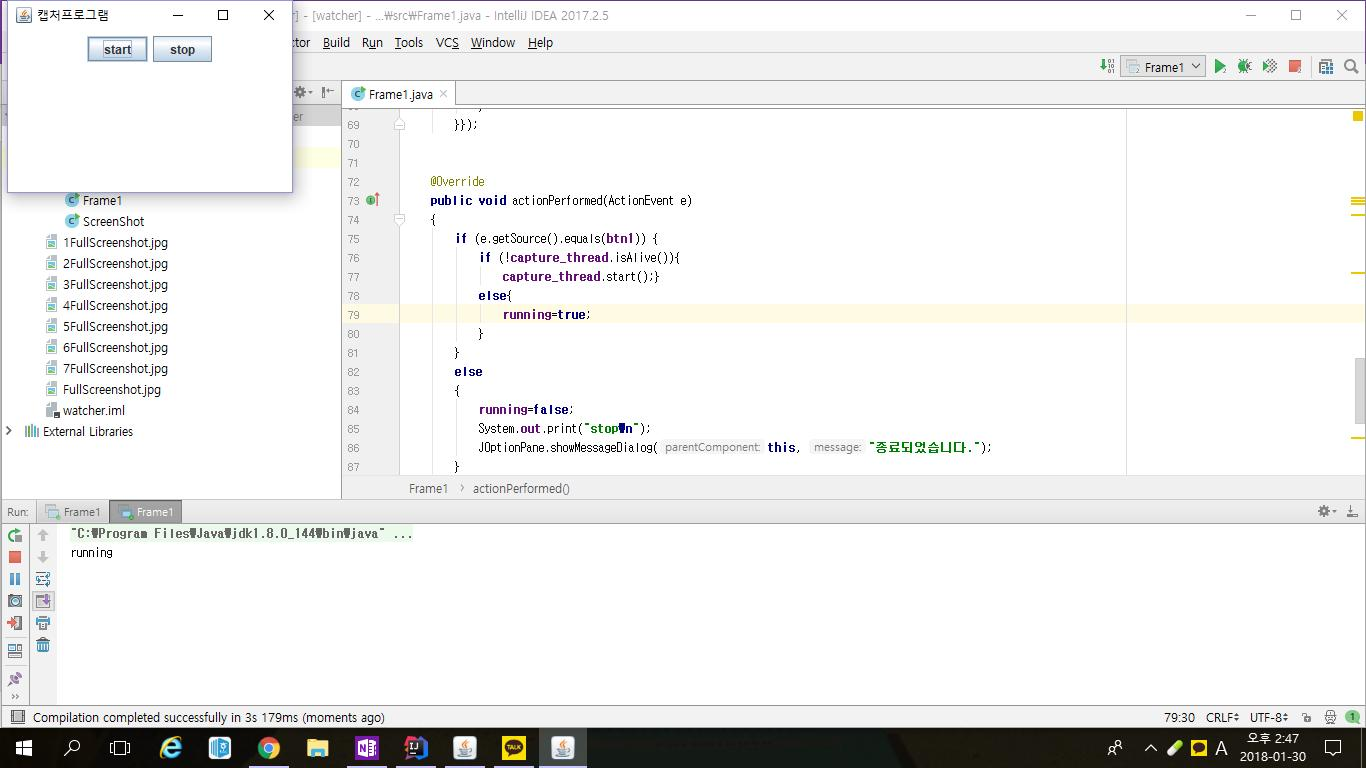
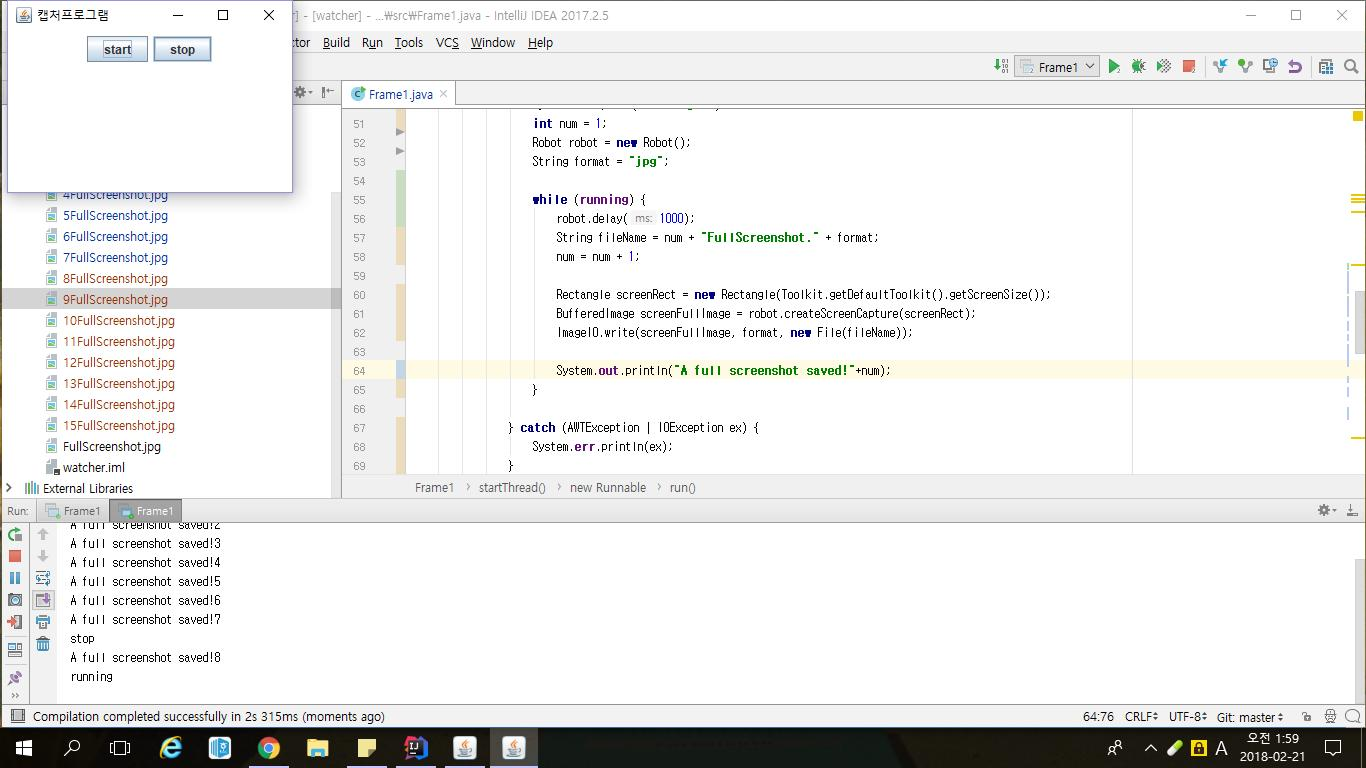
정지버튼 오류 (스레드) 수정

diff --git a/src/Frame1.java b/src/Frame1.java
@@ -40,50 +40,50 @@ public class Frame1 extends Frame implements ActionListener
         btn2.addActionListener(this);
 
     }
+    public void startThread(){
 
-    Thread capture_thread = new Thread(new Runnable() {
-        @Override
-        public void run() {
-            try {
-                running = true;
-                System.out.print("running\n");
-                int num = 1;
-
-                while (running) {
+        Thread capture_thread = new Thread(new Runnable() {
+            @Override
+            public synchronized void run() {
+                try {
+                    running = true;
+                    System.out.print("running\n");
+                    int num = 1;
                     Robot robot = new Robot();
-                    robot.delay(1000);
                     String format = "jpg";
-                    String fileName = num + "FullScreenshot." + format;
-                    num = num + 1;
 
-                    Rectangle screenRect = new Rectangle(Toolkit.getDefaultToolkit().getScreenSize());
-                    BufferedImage screenFullImage = robot.createScreenCapture(screenRect);
-                    ImageIO.write(screenFullImage, format, new File(fileName));
+                    while (running) {
+                        robot.delay(1000);
+                        String fileName = num + "FullScreenshot." + format;
+                        num = num + 1;
 
-                    System.out.println("A full screenshot saved!");
+                        Rectangle screenRect = new Rectangle(Toolkit.getDefaultToolkit().getScreenSize());
+                        BufferedImage screenFullImage = robot.createScreenCapture(screenRect);
+                        ImageIO.write(screenFullImage, format, new File(fileName));
+
+                        System.out.println("A full screenshot saved!"+num);
+                    }
+
+                } catch (AWTException | IOException ex) {
+                    System.err.println(ex);
                 }
-
-            } catch (AWTException | IOException ex) {
-                System.err.println(ex);
-            }
-        }});
+            }}
+            );
+        capture_thread.start();
+    }
 
 
     @Override
-    public void actionPerformed(ActionEvent e)
+    public synchronized void actionPerformed(ActionEvent e)
     {
         if (e.getSource().equals(btn1)) {
-            if (!capture_thread.isAlive()){
-                capture_thread.start();}
-            else{
-                running=true;
-            }
+            startThread();
         }
         else
         {
-            running=false;
-            System.out.print("stop\n");
-            JOptionPane.showMessageDialog(this, "종료되었습니다.");
+                running = false;
+                System.out.print("stop\n");
+                JOptionPane.showMessageDialog(this, "종료되었습니다.");
         }
     }
 
